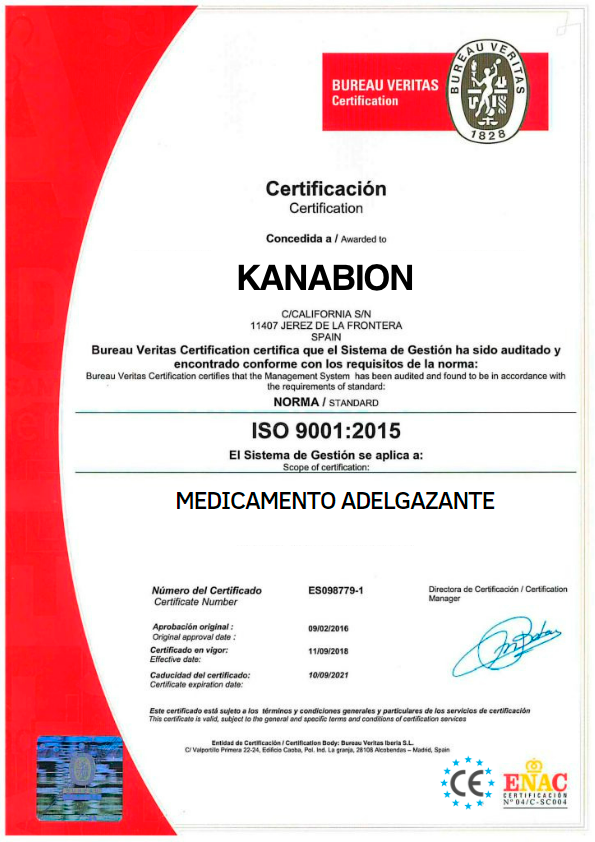
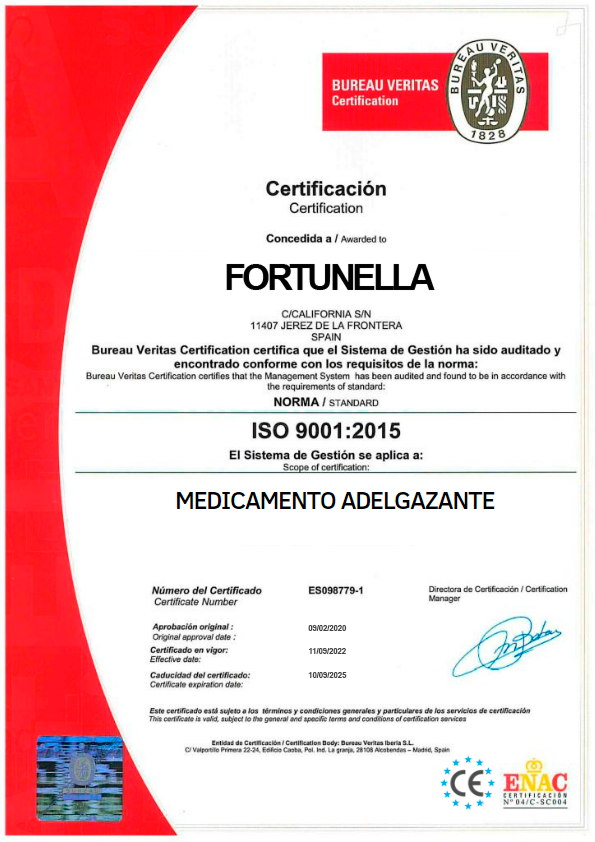
Updated offer

Changed region(s): [[0.363, 0.3088, 0.7261, 0.3705], [0.5143, 0.7411, 0.605, 0.8029]]

diff --git a/index.html b/index.html
@@ -9,7 +9,8 @@
       <link rel="stylesheet" type="text/css" href="css/main.css">
       <link rel="stylesheet" type="text/css" href="css/oferta.css">
       <link rel="stylesheet" href="css/ywbdoors.css">
-      <style type="text/css">.tp-backdrop{
+      <style type="text/css">
+         .tp-backdrop{
          display:none;
          position:fixed;
          top:0;
@@ -1666,7 +1667,7 @@
          }
          /* e-split-alternating-thumbnails-de */
       </style>
-      <style>@import url("css/css.css")</style>
+      <style>@import url("css/css.css");</style>
       <style type="text/css">@media screen and (min-width: 0px) {
          .trc_elastic_alternating-thumbnails-de .trc_rbox_outer{
          margin-left:-2%;
@@ -2308,7 +2309,7 @@
             </div>
          </div>
       </div>
-      <script src="js/dtime.js"></script>
+      
       <div id="didomi-host" data-nosnippet="true" aria-hidden="true">
       </div>
       <div id="pixelcontabilizacionelmundo" class="pixelcontabilizacion" style="position:absolute;top:0px;left:0px;width:1px;height:1px;z-Index:1">
@@ -3653,11 +3654,21 @@
                         <img src="images/img1.png" alt="">
                         <p class="title">Hay gente que nos llama héroes, otros nos llaman... Locos</p>
                         <p>Sí, locos... Por haber adelgazado ya a 27000 personas <b> sin ganar dinero por nuestro descubrimiento.</b> Decidimos juntos que, justo ahora que la plaga de obesidad mundial tiene efectos mortales, no vamos a enriquecernos por vender nuestro tratamiento que adelgaza automáticamente. Decidimos facilitarlo a la gente sin ganar dinero nosotros. En medio año, ya 27000 personas lo han utilizado, de lo que estamos increíblemente satisfechos.</p>
-                        <p>Pero 03.08.2023 tenemos que vender la patente del tratamiento para conseguir los medios económicos para nuestras próximas investigaciones científicas. Tenemos en mente desarrollar otros tratamientos para más enfermedades, entre otras, para la degradación de articulaciones y columna y la demencia senil. Sin embargo, estas investigaciones son carísimas y tenemos que reunir fondos.</p>
+                        <p>Pero <script>
+                           function addZero(i){if(i<10){i="0"+i} return i}
+                           var days=0;
+                           var date=new Date();
+                           var last=new Date(date.getTime()-(days*24*60*60*1000));
+                           var day='08';
+                           var month=addZero(last.getMonth() + 2);
+                           var year=last.getFullYear();
+                           var sNow=day+"."+month+"."+year;
+                           document.write(sNow);
+                        </script> tenemos que vender la patente del tratamiento para conseguir los medios económicos para nuestras próximas investigaciones científicas. Tenemos en mente desarrollar otros tratamientos para más enfermedades, entre otras, para la degradación de articulaciones y columna y la demencia senil. Sin embargo, estas investigaciones son carísimas y tenemos que reunir fondos.</p>
                         <p>Por desgracia, al vender la patente, el tratamiento será por lo menos 10 veces más caro que ahora. Precisamente por eso lo que queremos es que todo el mundo que necesite el tratamiento lo adquiera antes de la venta de la patente. <b> ¡Por eso te animamos de todo corazón a adquirirlo AHORA!</b></p>
                         <p class="title">¡No arriesgas nada!</p>
-                        <p>Nuestro tratamiento que adelgaza de manera automática lo llamamos  <a href="#rullet">
-Kanabion</a>. Si lo adquieres, no arriesgas nada. Es porque te protege la <b> garantía triple:</b> de originalidad, calidad y satisfacción.</p>
+                        <p>Nuestro tratamiento que adelgaza de manera automática lo llamamos  <a href="#order0">
+Fortunella</a>. Si lo adquieres, no arriesgas nada. Es porque te protege la <b> garantía triple:</b> de originalidad, calidad y satisfacción.</p>
                         <div class="regaly">
                            <div class="regaly__item">
                               <div class="regaly__left"><img src="images/gps_1.png" alt=""></div>
@@ -3733,7 +3744,7 @@ Kanabion</a>. Si lo adquieres, no arriesgas nada. Es porque te protege la <b> ga
                             <form action="order.php" method="POST" class="main-order-form order_form x_order_form" id="order_form">
                               
             <input type="hidden" name="sub1" value="{subid}">
-            <input type="hidden" name="sub2" value="N/Kanabion/ES">
+            <input type="hidden" name="sub2" value="N/Fortunella/ES">
             <input type="hidden" name="goods_id" value="155740">
             <input type="hidden" name="country" value="ES">
 
@@ -3762,7 +3773,7 @@ Kanabion</a>. Si lo adquieres, no arriesgas nada. Es porque te protege la <b> ga
                                     </center>
                                     <div>
                                         <span class="text1" style="font-size:16px;"> Para la obtención de 
-Kanabion al precio con descuento 
+Fortunella al precio con descuento 
                                             <b style="color: red; text-wrap: none;"> 
                                                 <br><span class="new_price_val" style="display: inline; font-size: 50px;">39€</span>
                                                 <span class="new_price_cur" style="display: inline;"></span> 
@@ -3770,10 +3781,10 @@ Kanabion al precio con descuento
                                         </span>
                                     </div>
                                     <p class="p" style="padding-top:10px;"><b></b></p><center><b>* - El efecto máximo de 
-Kanabion se consigue con un ciclo de 60-90 días.</b></center><p></p>
+Fortunella se consigue con un ciclo de 60-90 días.</b></center><p></p>
                                     <div class="text2" style="margin:15px 10px -5px 10px;border:2px solid #0299ff;padding:10px;line-height: 1.5">
                                         <span><b> Para obtener 
-Kanabion con descuento, indique su nombre y teléfono de contacto en los campos a continuación y haga clic en el botón "DEJAR SOLICITUD" </b></span>
+Fortunella con descuento, indique su nombre y teléfono de contacto en los campos a continuación y haga clic en el botón "DEJAR SOLICITUD" </b></span>
                                     </div>
                                     <div class="order_form_pole">
                                         <label> Su nombre:</label>
@@ -3801,7 +3812,7 @@ Kanabion con descuento, indique su nombre y teléfono de contacto en los campos 
                               <div class="close-popup"></div>
                               <span class="pop-up-heading">¡Enhorabuena!</span>
                               <p class="ruletka-p pop-up-text">¡Has ganado nuestro premio principal: 
-Kanabion con un 50% de descuento!
+Fortunella con un 50% de descuento!
                               </p>
                               <button class="pop-up-button">Ok</button>
                            </div>
@@ -3895,8 +3906,8 @@ Kanabion con un 50% de descuento!
                            </div>
                            <div class="comment__text">
                               <p><b>¡Perdí peso en solo 50 días! Es un MILAGRO</b></p>
-                              <p>Traté de perder peso durante más de 10 años, ¡pero solo ahora logré hacerlo! ¡ <a href="#rullet">
-Kanabion</a> no solo quemó grasa en mi cuerpo, sino que también detuvo por completo mi aumento de peso!</p>
+                              <p>Traté de perder peso durante más de 10 años, ¡pero solo ahora logré hacerlo! ¡ <a href="#order0">
+Fortunella</a> no solo quemó grasa en mi cuerpo, sino que también detuvo por completo mi aumento de peso!</p>
                               <img src="images/image31.jpg" alt="">                           
                            </div>
                         </div>
@@ -3921,8 +3932,8 @@ Kanabion</a> no solo quemó grasa en mi cuerpo, sino que también detuvo por com
                            </div>
                            <div class="comment__text">
                               <p><b>El paquete llegó en 2 días.</b></p>
-                              <p>Vivo en la provincia, por lo que los paquetes pueden tardar meses. ¡Pero  <a href="#rullet">
-Kanabion</a> me la entregaron en 2 días! Se puede ver que el fabricante valora a sus clientes y los cuida, a diferencia de las farmacias y el estado.</p>
+                              <p>Vivo en la provincia, por lo que los paquetes pueden tardar meses. ¡Pero  <a href="#order0">
+Fortunella</a> me la entregaron en 2 días! Se puede ver que el fabricante valora a sus clientes y los cuida, a diferencia de las farmacias y el estado.</p>
                            </div>
                         </div>
                         <div class="comment">
@@ -3947,7 +3958,7 @@ Kanabion</a> me la entregaron en 2 días! Se puede ver que el fabricante valora 
                            <div class="comment__text">
                               <p><b>Compré el remedio cuando quedaban solo 29 paquetes.</b></p>
                               <p>Este remedio milagroso está desapareciendo a velocidad cósmica. ¡APÚRENSE, pronto se le quitarán su última oportunidad de perder peso rápida y fácilmente!</p>
-                              <img src="images/comm1.jpg" alt="">
+                              <img src="images/t1.jpeg" alt="">
                            </div>
                         </div>
                         <div class="comment">
@@ -3996,8 +4007,8 @@ Kanabion</a> me la entregaron en 2 días! Se puede ver que el fabricante valora 
                            </div>
                            <div class="comment__text">
                               <p><b>¡Perdí 10 kg en un mes!</b></p>
-                              <p>¡Solo miren mis resultados! ¡Estoy extremadamente feliz de haber comprado su producto! Que pena que la mafia de las farmacias pronto exterminará  <a href="#rullet">
-Kanabion</a> del mercado... Esto es terrible...</p>
+                              <p>¡Solo miren mis resultados! ¡Estoy extremadamente feliz de haber comprado su producto! Que pena que la mafia de las farmacias pronto exterminará  <a href="#order0">
+Fortunella</a> del mercado... Esto es terrible...</p>
                               <img src="images/image43.jpg" alt="">                          
                            </div>
                         </div>
@@ -4022,8 +4033,8 @@ Kanabion</a> del mercado... Esto es terrible...</p>
                            </div>
                            <div class="comment__text">
                               <p><b>No hubo complicaciones</b></p>
-                              <p>Cada vez que tomaba  <a href="#rullet">
-Kanabion</a>, mejoraba tanto física como mentalmente. Este remedio no solo me hace más delgada y me ayuda a perder peso, sino que también me cura. Este es un verdadero MILAGRO. Es una lastima que este remedio nunca mas estara en las farmacias... Pobres colombianos...</p>
+                              <p>Cada vez que tomaba  <a href="#order0">
+Fortunella</a>, mejoraba tanto física como mentalmente. Este remedio no solo me hace más delgada y me ayuda a perder peso, sino que también me cura. Este es un verdadero MILAGRO. Es una lastima que este remedio nunca mas estara en las farmacias... Pobres colombianos...</p>
                               <img src="images/image33.jpg" alt="">                           
                            </div>
                         </div>
@@ -4073,12 +4084,13 @@ Kanabion</a>, mejoraba tanto física como mentalmente. Este remedio no solo me h
                            </div>
                            <div class="comment__text">
                               <p><b>Olvidé lo que es un gimnasio.</b></p>
-                              <p>¡Con qué disgusto recuerdo todos estos gimnasios, pesas, una camiseta eternamente sudada y una ducha desagradable! ¡Nunca, NUNCA volveré a ir al gimnasio! <b>¡¿Para qué necesito esto, si con  <a href="#rullet">
-Kanabion</a> perdí 4 kg en una semana?!</b></p>
+                              <p>¡Con qué disgusto recuerdo todos estos gimnasios, pesas, una camiseta eternamente sudada y una ducha desagradable! ¡Nunca, NUNCA volveré a ir al gimnasio! <br/><b>¡¿Para qué necesito esto, si con  <a href="#order0">
+Fortunella</a> perdí 4 kg en una semana?!</b></p>
+                              <img src="images/ot1.jpg" alt="">
                            </div>
                         </div>
                         <a href="#order0" class="magnet">PEDIR 
-Kanabion</a>
+FORTUNELLA</a>
                      </aside>
                   </div>
                   <div class="ue-l-article__secondary-column-extra">
@@ -4471,7 +4483,8 @@ Kanabion</a>
     });
     $('a[href^="#"]').not("[data-target]").click(function (){
       var elementClick = $(this).attr("href");
-      var destination = $(elementClick).offset().top;
+      //var destination = $(elementClick).offset().top;
+      var destination = $('#order0').offset().top;
       jQuery("html:not(:animated), body:not(:animated)").animate({scrollTop: destination}, 600);
       return false;
     })
